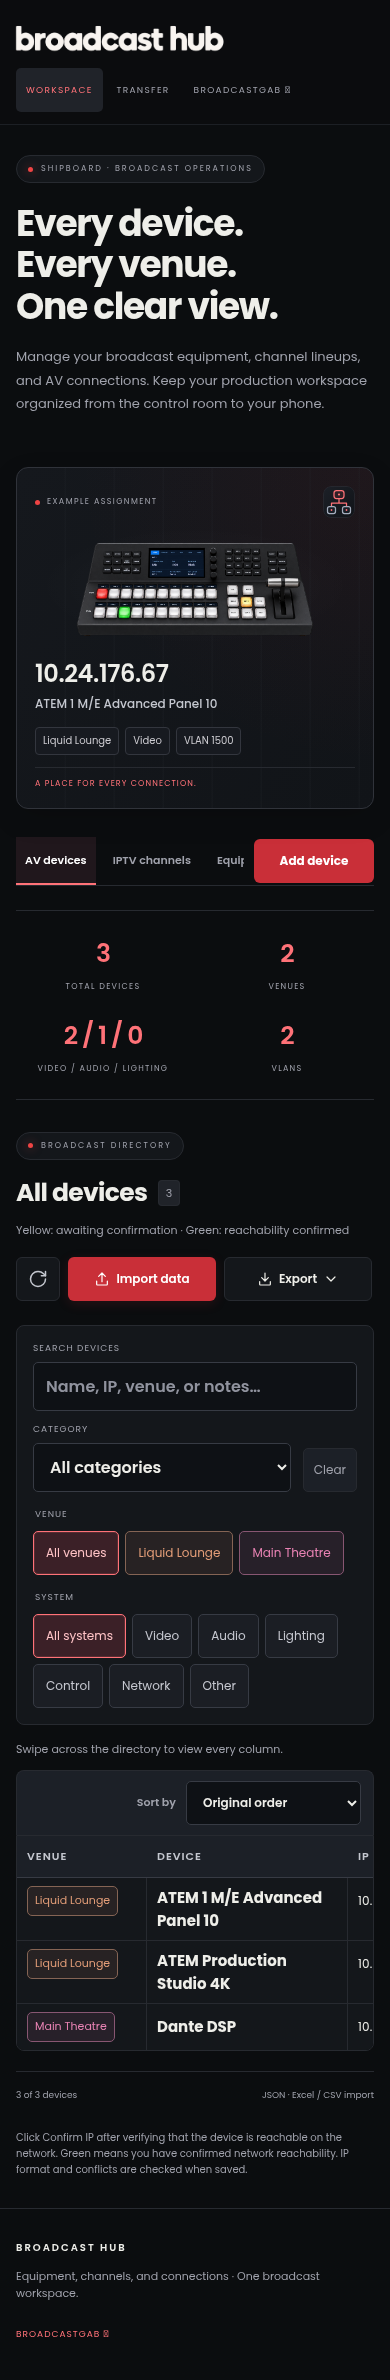
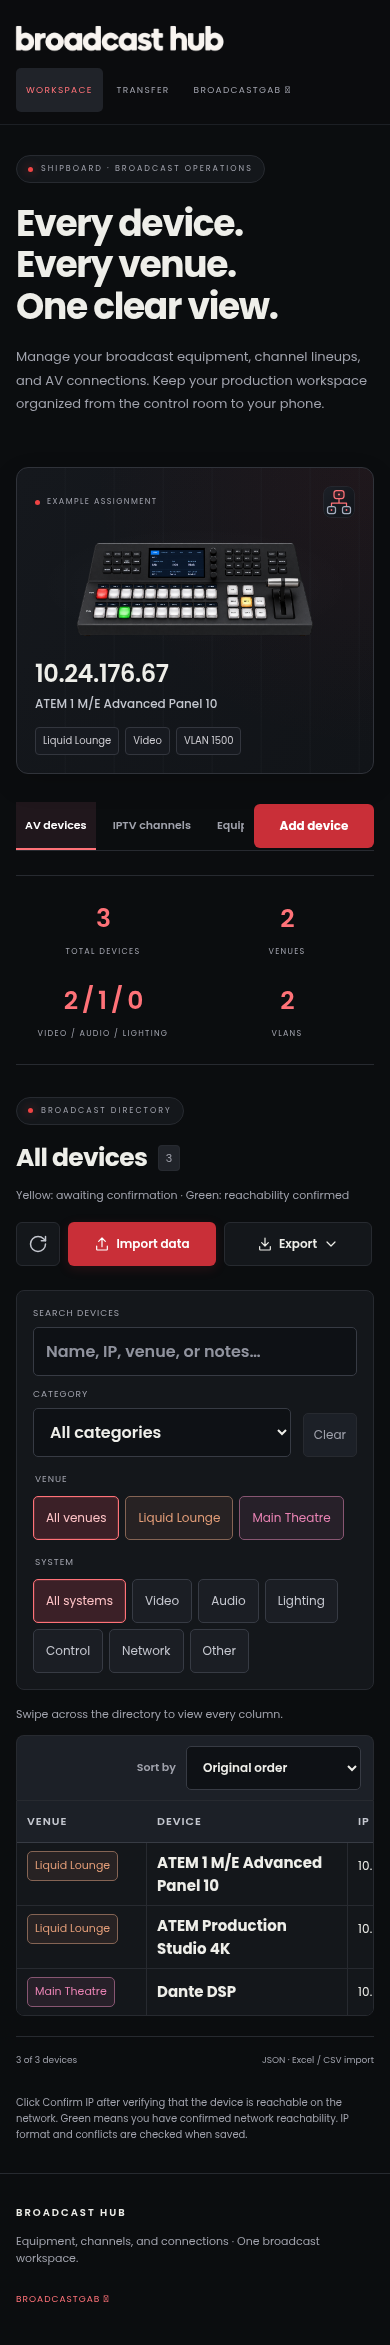
Remove example card caption

diff --git a/static/index.html b/static/index.html
@@ -10,7 +10,7 @@
 <body>
 <header class="topbar"><div class="header-inner"><a class="brand" href="/" aria-label="Broadcast Hub home"><img class="brand-logo" src="/brand-logo.png" alt="Broadcast Hub"></a><nav aria-label="Main navigation"><a class="nav-active" href="#workspace" aria-current="page">Workspace</a><a id="nav-transfer" href="#transfer">Transfer</a><a href="https://broadcastgab.com" target="_blank" rel="noopener noreferrer">BroadcastGab ↗</a></nav></div></header>
 <main>
-<section class="heading"><div class="hero-copy"><p class="eyebrow">SHIPBOARD · BROADCAST OPERATIONS</p><h1 id="hero-title">Every device.<br>Every venue.<br><span>One clear view.</span></h1><p class="intro" id="hero-intro">Keep your ship’s audio, video, and lighting network in view. Manage equipment, channel lineups, and AV connections by venue, and take your inventory from the control room to your phone.</p></div><div class="hero-side"><aside class="network-card" aria-label="Example device assignment"><div class="network-card-top"><span>EXAMPLE ASSIGNMENT</span><img src="/icon.svg" width="36" height="36" alt=""></div><div id="example-media" class="example-media"><img src="/example-switcher.png" alt="Illustration of an ATEM 1 M/E Advanced Panel 10" width="300" height="160"></div><p class="network-ip" id="example-ip">10.24.176.67</p><p class="network-name" id="example-name">ATEM 1 M/E Advanced Panel 10</p><div class="network-tags" id="example-tags"><span>Liquid Lounge</span><span>Video</span><span>VLAN 1500</span></div><p class="network-caption">A place for every connection.</p></aside></div></section>
+<section class="heading"><div class="hero-copy"><p class="eyebrow">SHIPBOARD · BROADCAST OPERATIONS</p><h1 id="hero-title">Every device.<br>Every venue.<br><span>One clear view.</span></h1><p class="intro" id="hero-intro">Keep your ship’s audio, video, and lighting network in view. Manage equipment, channel lineups, and AV connections by venue, and take your inventory from the control room to your phone.</p></div><div class="hero-side"><aside class="network-card" aria-label="Example device assignment"><div class="network-card-top"><span>EXAMPLE ASSIGNMENT</span><img src="/icon.svg" width="36" height="36" alt=""></div><div id="example-media" class="example-media"><img src="/example-switcher.png" alt="Illustration of an ATEM 1 M/E Advanced Panel 10" width="300" height="160"></div><p class="network-ip" id="example-ip">10.24.176.67</p><p class="network-name" id="example-name">ATEM 1 M/E Advanced Panel 10</p><div class="network-tags" id="example-tags"><span>Liquid Lounge</span><span>Video</span><span>VLAN 1500</span></div></aside></div></section>
 <div id="workspace" class="workspace-bar"><div class="inventory-tabs" role="tablist" aria-label="Inventory type"><button id="device-tab" role="tab" aria-selected="true" aria-controls="inventory">AV devices</button><button id="iptv-tab" role="tab" aria-selected="false" aria-controls="inventory" tabindex="-1">IPTV channels</button><button id="equipment-tab" role="tab" aria-selected="false" aria-controls="equipment-panel" tabindex="-1">Equipment inventory</button></div><button id="add-device" class="primary"><span aria-hidden="true">＋</span> Add device</button></div>
 <section class="stats" aria-label="Inventory summary"><div><span id="total-label">Total devices</span><strong id="total">—</strong></div><div id="venue-stat"><span>Venues</span><strong id="venue-count">—</strong></div><div><span id="system-count-label">Video / Audio / Lighting</span><strong id="system-count">—</strong></div><div id="vlan-stat"><span>VLANs</span><strong id="vlan-count">—</strong></div></section>
 <section class="inventory-panel" id="inventory" role="tabpanel" aria-labelledby="device-tab">

diff --git a/static/style.css b/static/style.css
@@ -81,7 +81,6 @@ button.primary, button.secondary, button.danger { padding: 12px 18px; border-rad
 .network-name { font-size: 12px; font-weight: 500; color: #c4c7cf; margin: 0 0 14px; }
 .network-tags { display: flex; flex-wrap: wrap; gap: 6px; }
 .network-tags span { color: #cccbd0; border: 1px solid #33363e; background: #171a20; border-radius: 4px; font-size: 10px; padding: 5px 7px; }
-.network-caption { color: var(--accent-text); font: 8px var(--font-ui); letter-spacing: 1.1px; text-transform: uppercase; margin: 14px 0 0; padding-top: 10px; border-top: 1px solid var(--border); }
 .stats { display: grid; grid-template-columns: repeat(4, 1fr); gap: 16px; border-top: 1px solid var(--border); border-bottom: 1px solid var(--border); padding: 24px 0; margin-bottom: 44px; }
 .stats > div { display: flex; flex-direction: column-reverse; align-items: center; text-align: center; gap: 8px; }
 .stats span { font: 9px var(--font-ui); letter-spacing: 1.3px; text-transform: uppercase; color: var(--muted); }
@@ -183,7 +182,6 @@ textarea { resize: vertical; }
   .eyebrow { font-size: 8px; }
   .network-card { padding: 18px; }
   .network-ip { font-size: 24px; margin-top: 16px; }
-  .network-caption { margin-top: 12px; }
   .stats { gap: 24px 10px; grid-template-columns: 1fr 1fr; margin-bottom: 30px; }
   .stats strong { font-size: 25px; }
   .stats span { font-size: 8px; }
